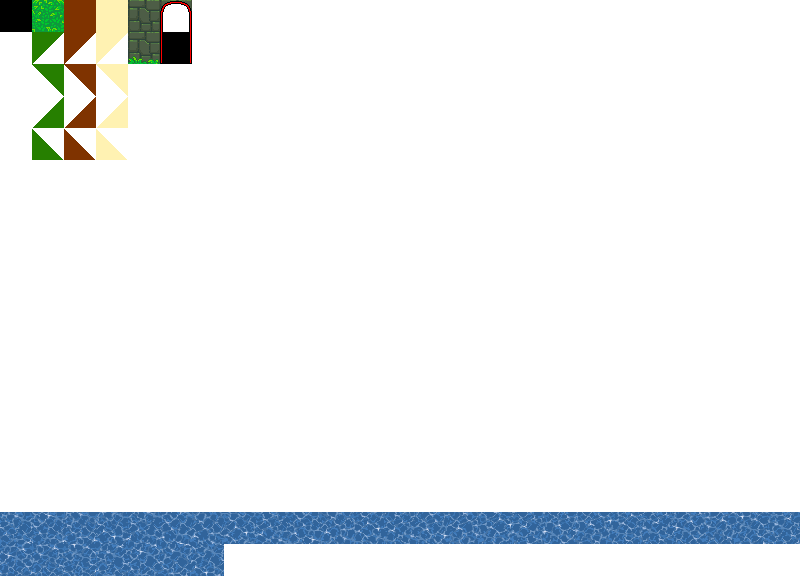
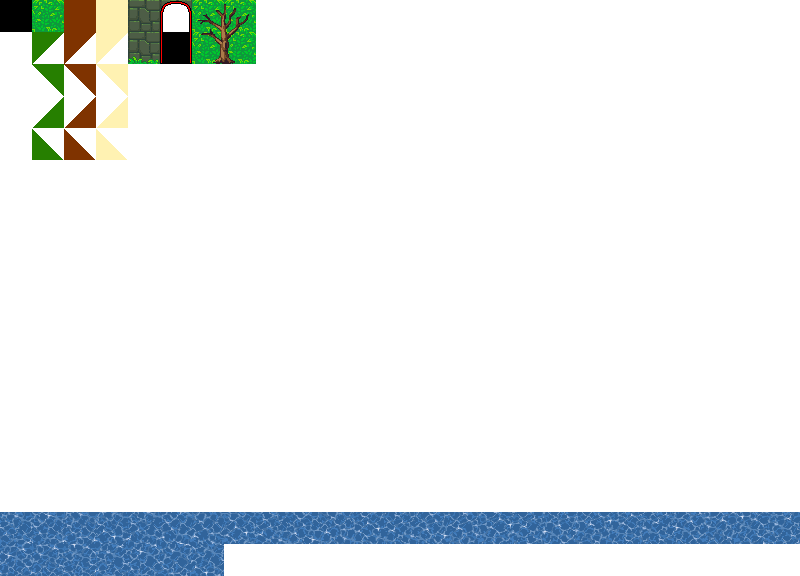
Fix (old) map file

Changed region(s): [[0.2188, 0.0, 0.3438, 0.125]]

diff --git a/map.js b/map.js
@@ -1,10 +1,11 @@
 var WATER = { animation: [[16, 0], [16, 1], [16, 2], [16, 3], [16, 4], [16, 5], [16, 6], [16, 7], [16, 8], [16, 9], [16, 10], [16, 11], [16, 12], [16, 13], [16, 14], [16, 15], [16, 16], [16, 17], [16, 18], [16, 19], [16, 20], [16, 21], [16, 22], [16, 23], [16, 24], [17, 0], [17, 1], [17, 2], [17, 3], [17, 4], [17, 5], [17, 6]] },
-    GRASS = [0, 0], GRASS_TL = [1, 0], GRASS_TR = [2, 0], GRASS_BR = [3, 0], GRASS_BL = [4, 0],
+    GRASS = [0, 1], GRASS_TL = [1, 1], GRASS_TR = [2, 1], GRASS_BR = [3, 1], GRASS_BL = [4, 1],
     DIRT = [0, 1], DIRT_TL = [1, 1], DIRT_TR = [2, 1], DIRT_BR = [3, 1], DIRT_BL = [4, 1],
     SAND = [0, 2], SAND_TL = [1, 2], SAND_TR = [2, 2], SAND_BR = [3, 2], SAND_BL = [4, 2],
-    WALL = [1, 3], WALL_B = [0, 3],
-    DOOR = [1, 4], DOOR_T = [0, 4],
-    VOID = [15, 0];
+    WALL = [0, 4], WALL_B = [1, 4],
+    DOOR = [1, 5], DOOR_T = [0, 5],
+    VOID = [0, 0],
+    TREE_TL = [0, 6], TREE_TR = [0, 7], TREE_BL = [1, 6], TREE_BR = [1, 7];
 
 function _corner(t1, t2) {
   return { corners:[t1, t2] };
@@ -77,8 +78,8 @@ var map = {
       "0": {
         "0": {"0": DIRT, "1": SAND, "2": DIRT, "3": GRASS, "4": GRASS, "5": GRASS, "6": GRASS, "7": GRASS, "8": GRASS, "9": GRASS, "10": GRASS, "11": GRASS, "12": GRASS, "13": GRASS, "14": GRASS, "15": GRASS},
         "1": {"0": DIRT, "1": SAND, "2": DIRT, "3": GRASS, "4": GRASS, "5": GRASS, "6": GRASS, "7": GRASS, "8": GRASS, "9": GRASS, "10": GRASS, "11": GRASS, "12": GRASS, "13": GRASS, "14": GRASS, "15": GRASS},
-        "2": {"0": DIRT, "1": SAND, "2": DIRT, "3": GRASS, "4": GRASS, "5": GRASS, "6": GRASS, "7": GRASS, "8": GRASS, "9": GRASS, "10": GRASS, "11": GRASS, "12": GRASS, "13": GRASS, "14": GRASS, "15": GRASS},
-        "3": {"0": DIRT, "1": SAND, "2": DIRT, "3": GRASS, "4": GRASS, "5": GRASS, "6": GRASS, "7": GRASS, "8": GRASS, "9": GRASS, "10": GRASS, "11": GRASS, "12": GRASS, "13": GRASS, "14": GRASS, "15": GRASS},
+        "2": {"0": DIRT, "1": SAND, "2": DIRT, "3": GRASS, "4": TREE_TL, "5": TREE_TR, "6": GRASS, "7": GRASS, "8": GRASS, "9": GRASS, "10": GRASS, "11": GRASS, "12": GRASS, "13": GRASS, "14": GRASS, "15": GRASS},
+        "3": {"0": DIRT, "1": SAND, "2": DIRT, "3": GRASS, "4": TREE_BL, "5": TREE_BR, "6": GRASS, "7": GRASS, "8": GRASS, "9": GRASS, "10": GRASS, "11": GRASS, "12": GRASS, "13": GRASS, "14": GRASS, "15": GRASS},
         "4": {"0": DIRT, "1": SAND, "2": DIRT, "3": DIRT, "4": DIRT, "5": DIRT, "6": DIRT, "7": DIRT, "8": DIRT, "9": DIRT, "10": GRASS, "11": GRASS, "12": GRASS, "13": GRASS, "14": GRASS, "15": GRASS },
         "5": {"0": DIRT, "1": SAND, "2": SAND, "3": SAND, "4": SAND, "5": SAND, "6": SAND, "7": SAND, "8": SAND, "9": DIRT, "10": GRASS, "11": GRASS, "12": GRASS, "13": GRASS, "14": GRASS, "15": GRASS },
         "6": {"0": DIRT, "1": DIRT, "2": DIRT, "3": DIRT, "4": DIRT, "5": DIRT, "6": DIRT, "7": DIRT, "8": SAND, "9": DIRT, "10": GRASS, "11": GRASS, "12": GRASS, "13": GRASS, "14": GRASS, "15": GRASS },
